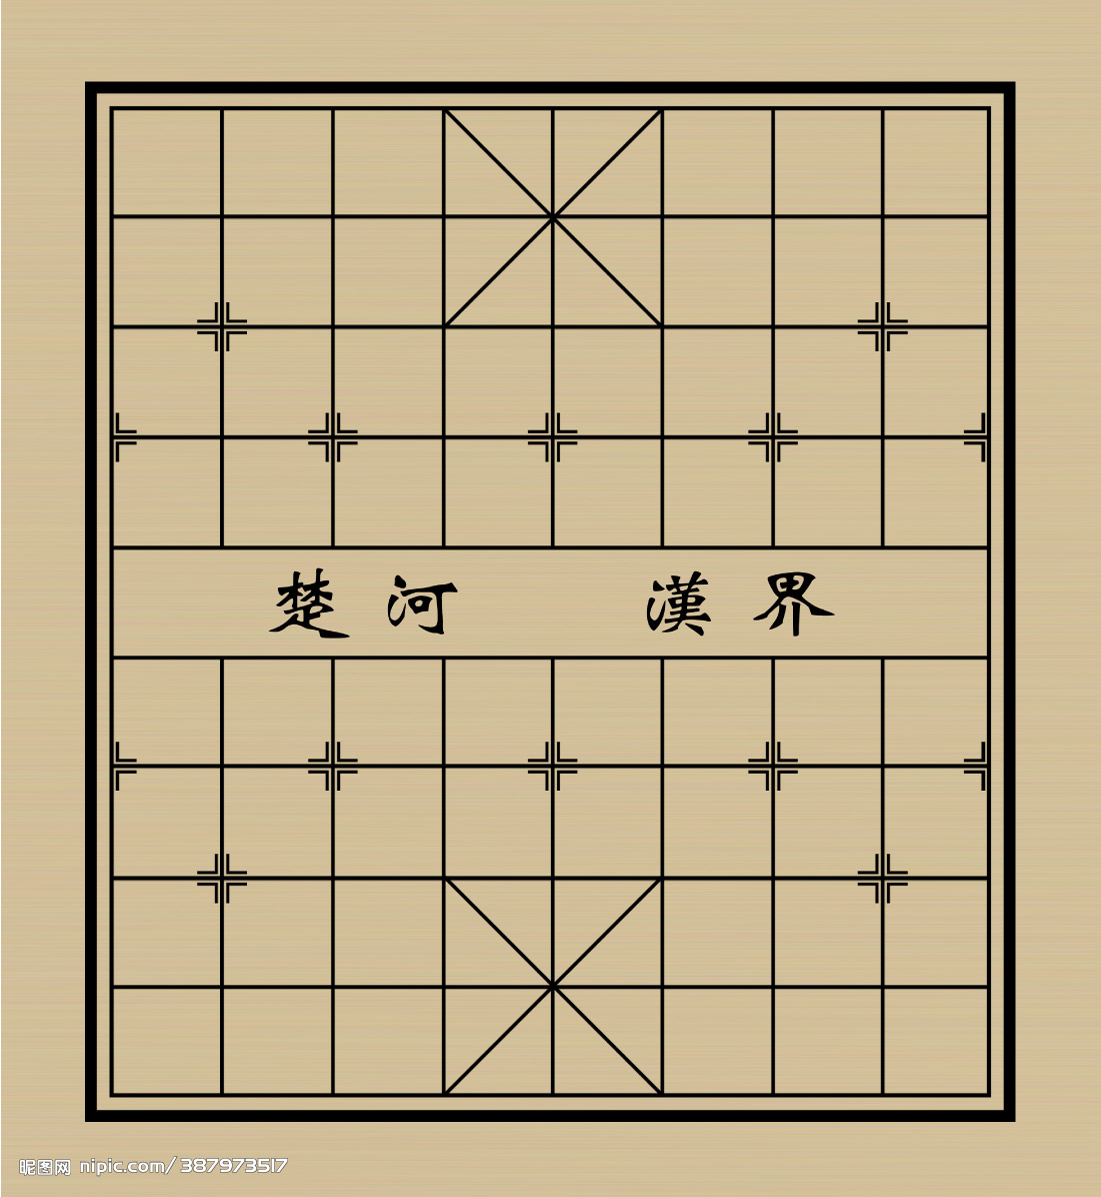
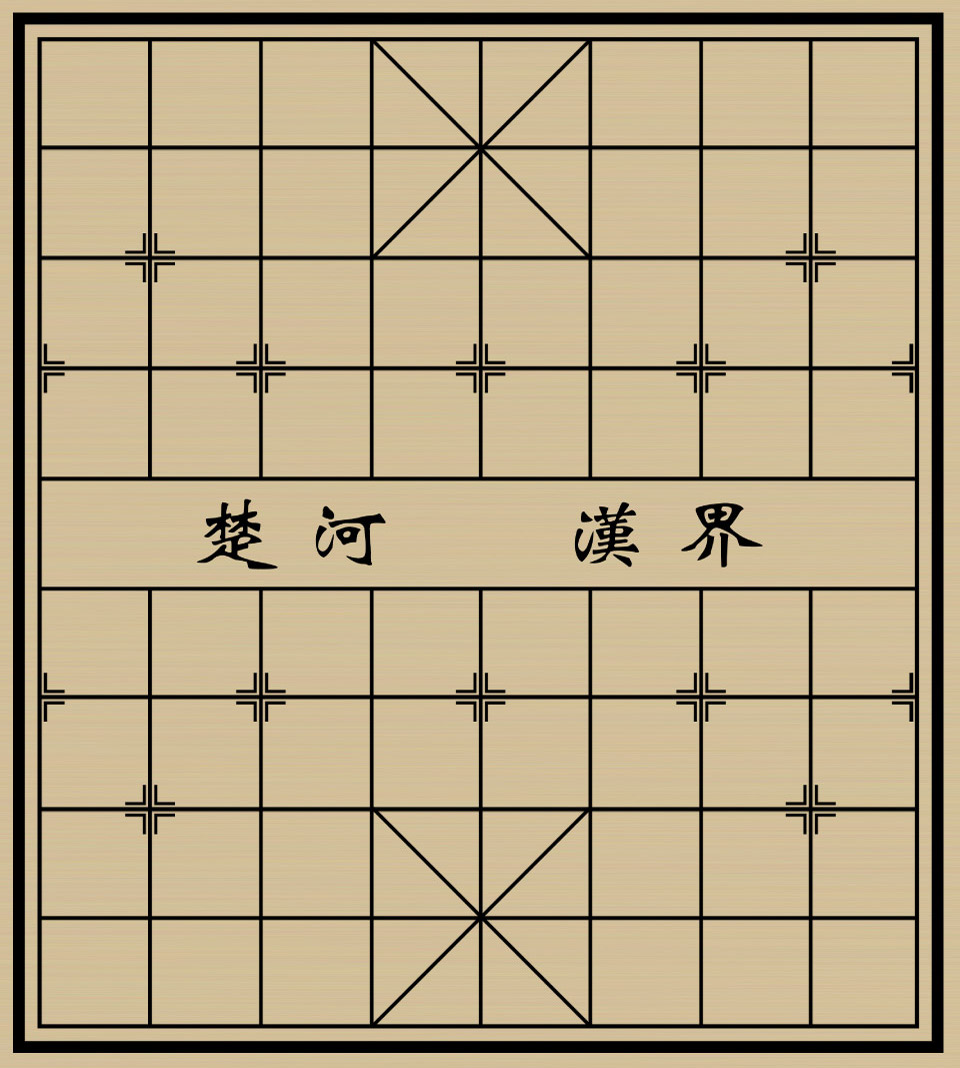
Add project file and workspace working on windows + vc9. Add SetSize after resize on Board, but it seems has bug.

Changed region(s): [[0.0, 0.0, 1.0, 0.9888]]

diff --git a/wxCnChessGameViewPanel.cpp b/wxCnChessGameViewPanel.cpp
@@ -7,9 +7,9 @@
 namespace wxCnChess {
 
     BEGIN_EVENT_TABLE(wxCnChessGameView, wxPanel)
-        EVT_MOUSE_EVENTS    (wxCnChessGameView::OnMouseMove)
-        EVT_ERASE_BACKGROUND(wxCnChessGameView::OnEraseBackground)
-        EVT_PAINT           (wxCnChessGameView::OnPaint)
+        //EVT_MOUSE_EVENTS    (wxCnChessGameView::OnMouseMove)
+        //EVT_ERASE_BACKGROUND(wxCnChessGameView::OnEraseBackground)
+        //EVT_PAINT           (wxCnChessGameView::OnPaint)
         //EVT_SIZE            (wxCnChessGameView::OnSize)
     END_EVENT_TABLE()
 
@@ -71,7 +71,7 @@ namespace wxCnChess {
         wxBoxSizer* controlSizer = new wxBoxSizer( wxVERTICAL );
 
         CreateTreeControl( controlSizer );
-        CreateListControl( controlSizer );
+        //CreateListControl( controlSizer );
         CreateTextControl( controlSizer );
 
         //create a sizer with no border and centered horizontally
@@ -117,7 +117,7 @@ namespace wxCnChess {
 
         m_Tree->Expand(root);
 
-        sizer->Add( m_Tree, 1, wxEXPAND | wxALL, 2 );
+        sizer->Add( m_Tree, 1, wxEXPAND /*| wxALL*/, 2 );
 
     }
 
@@ -137,7 +137,7 @@ namespace wxCnChess {
     {
         m_List = new wxListCtrl( this, ID_ListCtrl,
                             wxDefaultPosition, wxSize(160,80),
-                            wxLC_REPORT|wxLC_SINGLE_SEL|wxLC_HRULES|wxLC_VRULES);
+                            wxLC_REPORT/*|wxLC_SINGLE_SEL|wxLC_HRULES|wxLC_VRULES*/);
 
         wxListItem itemCol;
         itemCol.SetText(wxT("Red"));
@@ -173,28 +173,29 @@ namespace wxCnChess {
     }
 
     //------------------------------------------------------------------------------
-    void wxCnChessGameView::OnSize(wxSizeEvent& event)
-    {
-        //m_ReSized = true;
-
-        //Refresh();
-
-        //wxLogMessage(wxT("OnSize: w=%d,h=%d" ),iWidth,iHeight);
-    }
-
-    //------------------------------------------------------------------------------
-    void wxCnChessGameView::OnPaint(wxPaintEvent& event)
-    {
-
-    }
-
-    //------------------------------------------------------------------------------
-    void wxCnChessGameView::OnMouseMove(wxMouseEvent& event)
-    {
-    }
-
-    //------------------------------------------------------------------------------
-    void wxCnChessGameView::OnEraseBackground(wxEraseEvent& event)
-    {
-    }
+//    void wxCnChessGameView::OnSize(wxSizeEvent& event)
+//    {
+//        wxPanel::OnSize(event);
+//        //m_ReSized = true;
+//
+//        Refresh();
+//
+//        //wxLogMessage(wxT("OnSize: w=%d,h=%d" ),iWidth,iHeight);
+//    }
+//
+//    //------------------------------------------------------------------------------
+//    void wxCnChessGameView::OnPaint(wxPaintEvent& event)
+//    {
+//        wxPanel::OnPaint(event);
+//    }
+//
+//    //------------------------------------------------------------------------------
+//    void wxCnChessGameView::OnMouseMove(wxMouseEvent& event)
+//    {
+//    }
+//
+//    //------------------------------------------------------------------------------
+//    void wxCnChessGameView::OnEraseBackground(wxEraseEvent& event)
+//    {
+//    }
 }

diff --git a/wxCnChessBoardControl.cpp b/wxCnChessBoardControl.cpp
@@ -210,6 +210,7 @@ namespace wxCnChess {
         bw = m_BoardImage.GetWidth();
         bh = m_BoardImage.GetHeight();
 
+        SetSize( bw + 5, bh + 5);
 
         // If use the ChessBoard.jpg as background the offset should be the fallowing
         const float offset_x = 0.041436, offset_y = 0.037221;
@@ -257,24 +258,32 @@ namespace wxCnChess {
         // this is our return value
         wxBitmap result;
 
+        int new_width, new_height;
+
         // if the width is bigger than the height, we should determine a scale for the height
         if (original_width >= original_height && original_width > max_width) {
             float height_scale = (float)max_width / (float)original_width; // determine the scale
             wxImage img = bmp.ConvertToImage(); // create an image of the bitmap
             // now use rescale with our perfect scale dimensions
-            result = wxBitmap(img.Rescale(max_width, (int)(original_height * height_scale)));
+            new_width  = max_width;
+            new_height = (int)(original_height * height_scale);
+            result = wxBitmap(img.Rescale( new_width, new_height ));
         } else if (original_height >= original_width && original_height > max_height) {
             // do a similar thing here, only for the width instead of height
             float width_scale = (float)max_height / (float)original_height;
             wxImage img = bmp.ConvertToImage();
-            result = wxBitmap(img.Rescale((int)(original_width * width_scale), max_height));
+            new_width  = (int)(original_width * width_scale);
+            new_height = max_height;
+            result = wxBitmap(img.Rescale( new_width, new_height ));
         } else { // nothing to do, simply return the original bitmap
             return bmp;
         }
 
+        //SetSize(new_width, new_height);
+
         // now we need to trim the actual bitmap to the same scale~ otherwise, the graphic itself
         // will be the right size, but the bitmap object will retain the original sizes (which are too big)
-        //result.SetWidth(max_width); result.SetHeight(max_height);
+        result.SetWidth(new_width); result.SetHeight(new_height);
         return result; // finally, return the resized bitmap
     }
 }

diff --git a/unittest/boost_test_util.cpp b/unittest/boost_test_util.cpp
@@ -1,10 +1,9 @@
-#define BOOST_AUTO_TEST_MAIN
+
+#include <boost/test/unit_test.hpp>
 
 #include <iostream>
-#include <boost/test/unit_test.hpp>
 #include <stdlib.h>
 #include <stdio.h>
-
 #include <iostream>
 #include <string>
 
@@ -42,22 +41,25 @@ BOOST_AUTO_TEST_CASE( SIZE_Tree )
     tr.append_child(one,"three");
 
     loc=find(tr.begin(), tr.end(), "two");
-    if(loc!=tr.end()) {
-      tree<string>::sibling_iterator sib=tr.begin(loc);
-      while(sib!=tr.end(loc)) {
-         cout << (*sib) << endl;
-         ++sib;
-         }
-      cout << endl;
-      tree<string>::iterator sib2=tr.begin(loc);
-      tree<string>::iterator end2=tr.end(loc);
-      while(sib2!=end2) {
-         for(int i=0; i<tr.depth(sib2)-2; ++i)
-            cout << " ";
-         cout << (*sib2) << endl;
-         ++sib2;
-         }
-      }
+    if (loc!=tr.end())
+    {
+        tree<string>::sibling_iterator sib=tr.begin(loc);
+        while (sib!=tr.end(loc))
+        {
+            cout << (*sib) << endl;
+            ++sib;
+        }
+        cout << endl;
+        tree<string>::iterator sib2=tr.begin(loc);
+        tree<string>::iterator end2=tr.end(loc);
+        while (sib2!=end2)
+        {
+            for (int i=0; i<tr.depth(sib2)-2; ++i)
+                cout << " ";
+            cout << (*sib2) << endl;
+            ++sib2;
+        }
+    }
 
 }
 

diff --git a/wxCnChessGameViewPanel.h b/wxCnChessGameViewPanel.h
@@ -44,10 +44,10 @@ namespace wxCnChess {
 
     protected:
 
-        virtual void OnSize(wxSizeEvent& event);
-        virtual void OnPaint(wxPaintEvent& event);
-        virtual void OnMouseMove(wxMouseEvent& event);
-        virtual void OnEraseBackground(wxEraseEvent& event);
+//        virtual void OnSize(wxSizeEvent& event);
+//        virtual void OnPaint(wxPaintEvent& event);
+//        virtual void OnMouseMove(wxMouseEvent& event);
+//        virtual void OnEraseBackground(wxEraseEvent& event);
 
     public:
         enum

diff --git a/wxXQFReader.h b/wxXQFReader.h
@@ -4,6 +4,7 @@
 #include "wxCnChessGame.h"
 
 #if defined( __WIN32__ ) || defined( _WIN32 )
+#include <windows.h>
 #else
 typedef unsigned char   BYTE;
 typedef unsigned short  WORD;
@@ -36,9 +37,9 @@ namespace wxCnChess
     private:
         std::string m_LastError;
         enum {RECENT_VER = 0x12};
-        // 解密用数据
+        // For Decrypt
         BYTE m_ucKey[0x30];
-        // 文件版本
+        // File Version
         BYTE m_ucVer;
         BYTE m_uc40E;
         BYTE m_uc40F;

diff --git a/wxXQFReader.cpp b/wxXQFReader.cpp
@@ -107,7 +107,7 @@ namespace wxCnChess
     ////////////////////////////////////
     bool wxXQFReader::ReadInitDecryptKey(const BYTE* buf)
     {
-        // 初始化解密种子
+        // initialize the seed for decypt
         if (m_ucVer < 0x10)
         {
             m_ucVer = 0;

diff --git a/unittest/boost_test_ReadXQF.cpp b/unittest/boost_test_ReadXQF.cpp
@@ -1,3 +1,5 @@
+#define BOOST_AUTO_TEST_MAIN
+
 #include <iostream>
 #include <boost/test/unit_test.hpp>
 #include <vector>
@@ -5,6 +7,8 @@
 #include "wxXQFReader.h"
 
 using namespace std;
+
+
 
 BOOST_AUTO_TEST_CASE( Read_Sample_XQF )
 {
